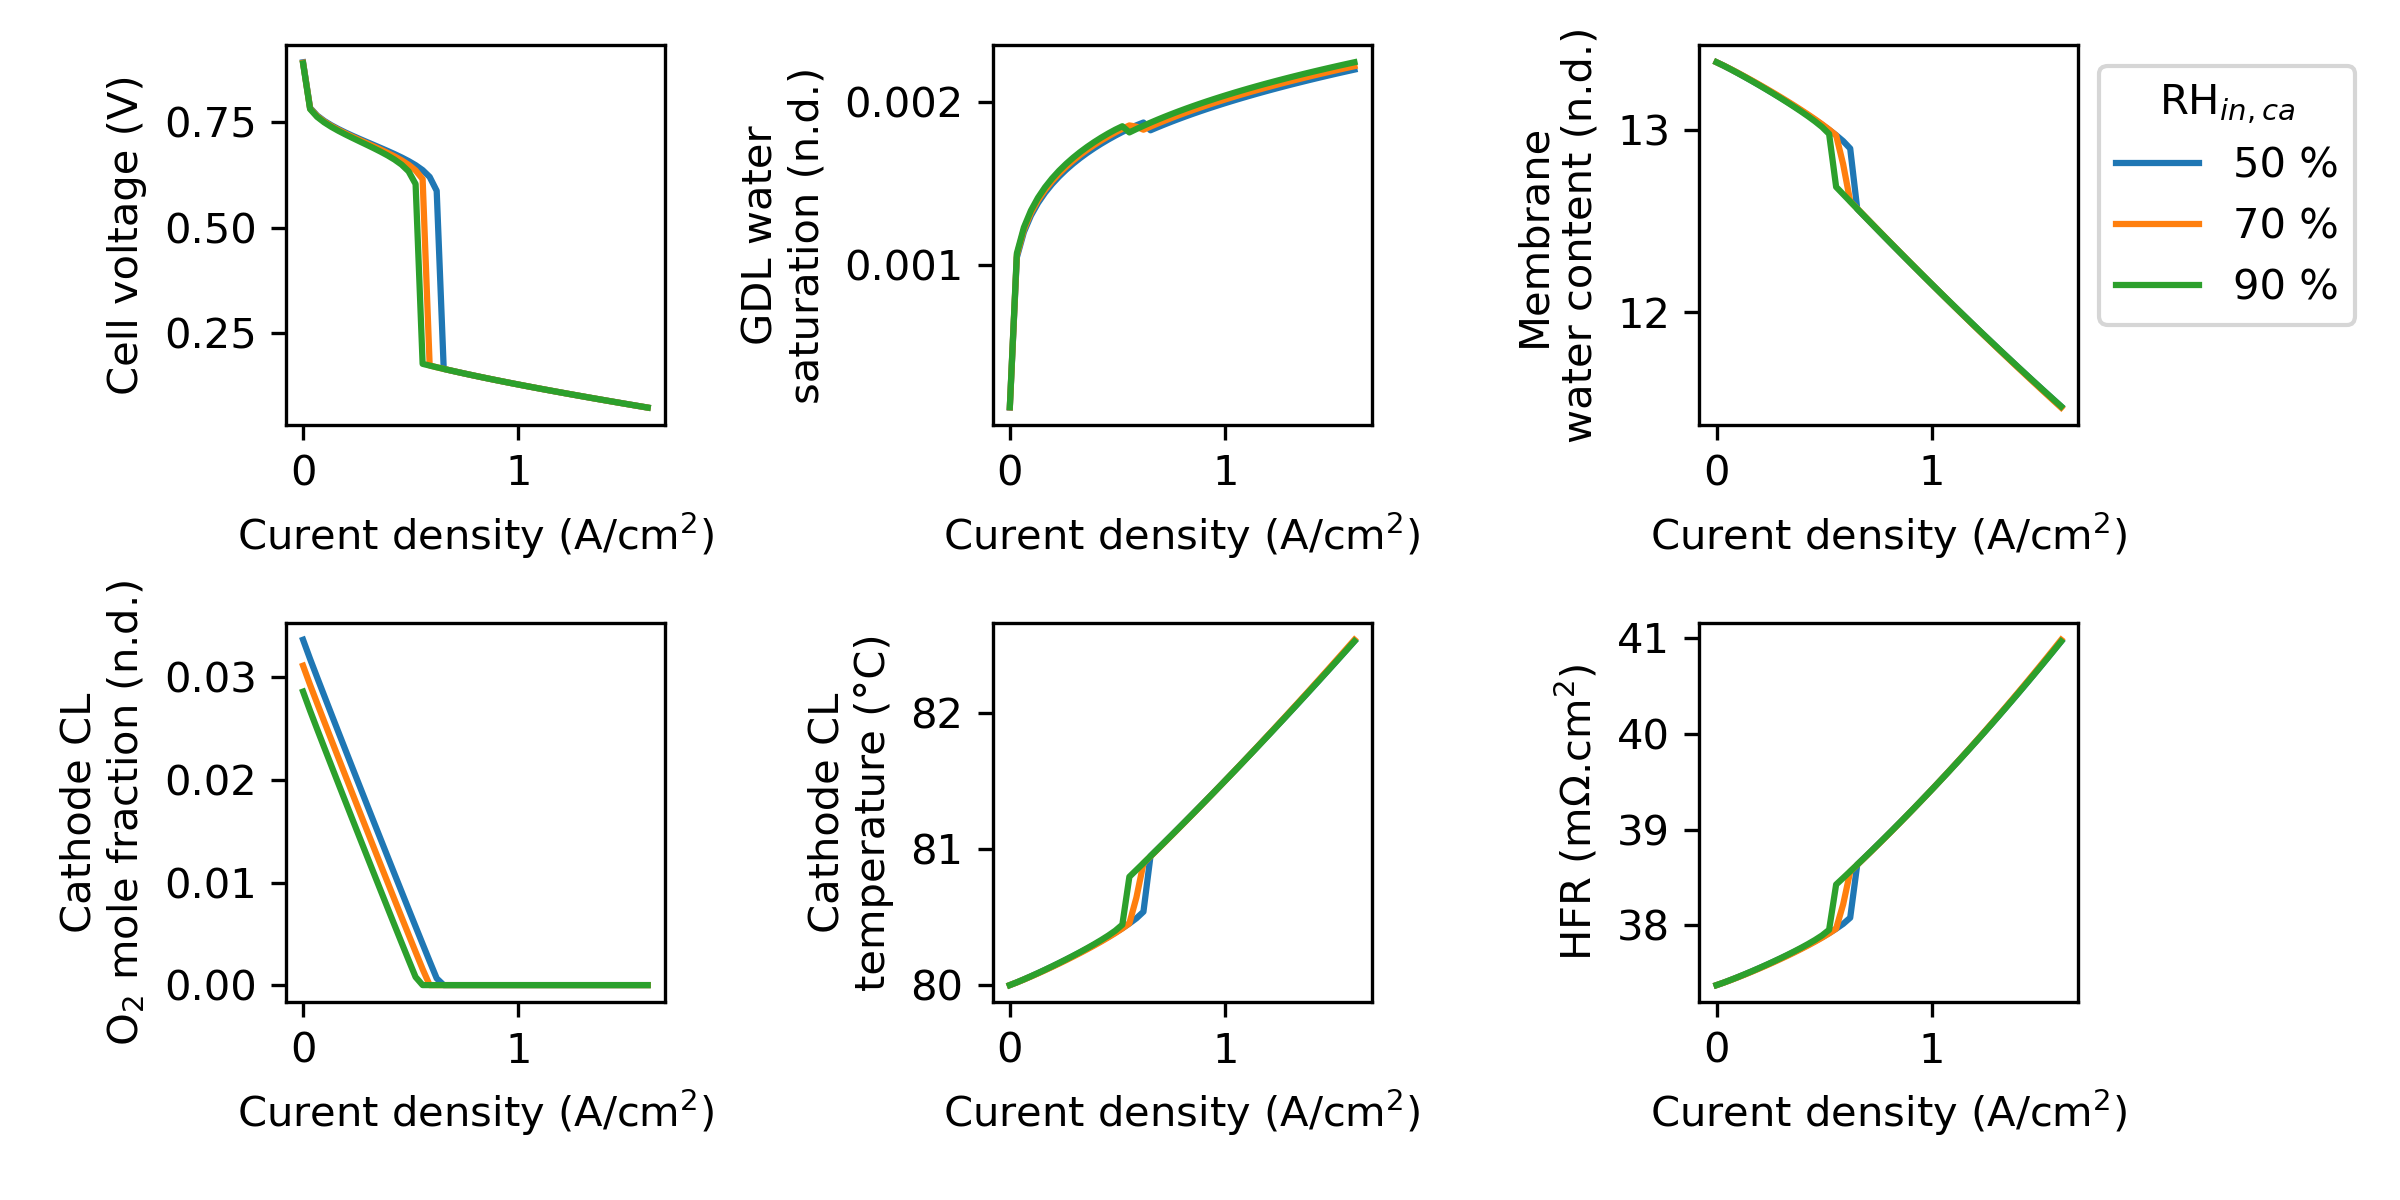
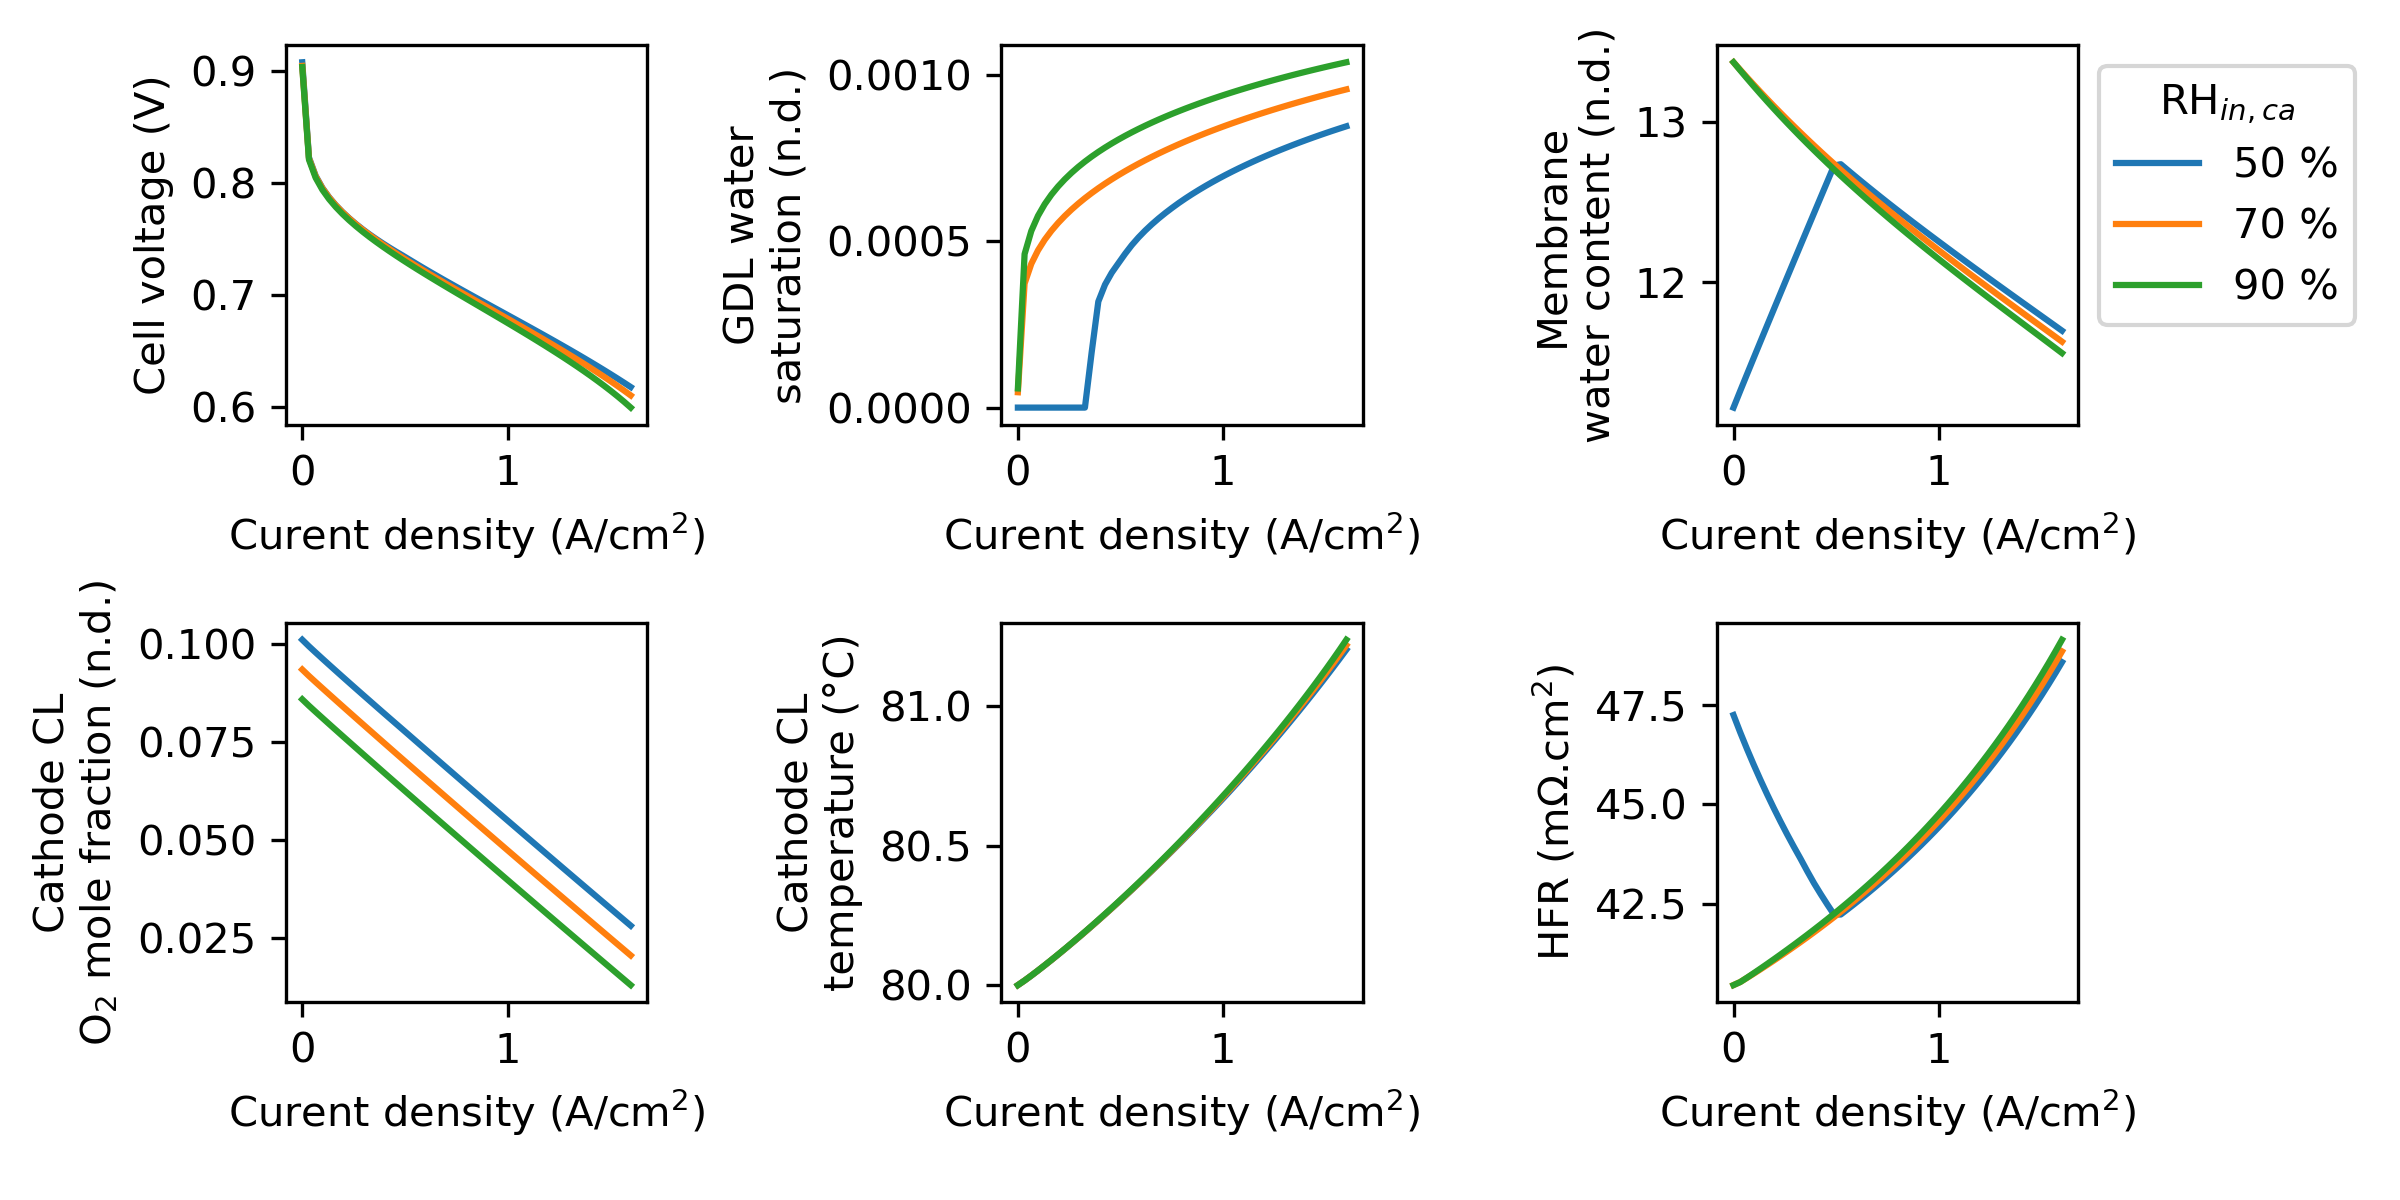
Correct wrong wet density calculation and transfer it to membrane parent class.

diff --git a/src/marapendi/ionomer.py b/src/marapendi/ionomer.py
@@ -16,7 +16,7 @@ import numpy as np
 import cantera as ct
 
 from .tools import arrhenius_term
-from .water import water_molecular_weight, water_molar_volume, water_density
+from .water import water_molar_volume
 from .membrane import Membrane, PAP85, PFSA
 
 @dataclass 
@@ -36,44 +36,6 @@ class CatalystLayerIonomer(Membrane):
 
     def __post_init__(self):
         super().__post_init__()
-
-    def wet_density(self, water_content, temperature):
-        """
-        Compute the wet density of the ionomer.
-
-        Parameters
-        ----------
-        water_content : float
-            Water content in the ionomer [n.d.].
-        temperature : float
-            Temperature [K].
-
-        Returns
-        -------
-        float
-            Wet density [kg/m3].
-        """
-        water_mass = water_molecular_weight * water_content
-        return self.equivalent_weight + water_mass / (self.equivalent_weight / self.dry_density + water_mass / water_density(temperature))
-
-    def wet_expansion_factor(self, water_content, temperature):
-        """
-        Compute volumetric expansion factor due to water uptake.
-
-        Parameters
-        ----------
-        water_content : float
-            Water content [n.d.].
-        temperature : float
-            Temperature [K].
-
-        Returns
-        -------
-        float
-            Expansion factor relative to dry volume.
-        """
-        water_mass = water_molecular_weight * water_content
-        return 1 + self.dry_density * water_mass / self.equivalent_weight / water_density(temperature)
 
     def charge_conductivity(self, water_content, temperature, charge='proton'):
         """

diff --git a/src/marapendi/membrane.py b/src/marapendi/membrane.py
@@ -6,7 +6,7 @@ import numpy as np
 import cantera as ct 
 from dataclasses import dataclass, field
 from marapendi.tools import arrhenius_term
-from marapendi.water import water_molar_volume
+from .water import water_molecular_weight, water_molar_volume, water_density
 from marapendi.water_balance_models import MembraneWaterBalanceModel
 from marapendi.membrane_permeation_models import HydrogenPermeationModel 
 
@@ -104,6 +104,44 @@ class Membrane:
         membrane_water_molar_volume = water_molar_volume * water_content
         return membrane_water_molar_volume / (self.dry_molar_volume +
                                                membrane_water_molar_volume)
+
+    def wet_density(self, water_content, temperature):
+        """
+        Compute the wet density of the ionomer.
+
+        Parameters
+        ----------
+        water_content : float
+            Water content in the ionomer [n.d.].
+        temperature : float
+            Temperature [K].
+
+        Returns
+        -------
+        float
+            Wet density [kg/m3].
+        """
+        water_mass = water_molecular_weight * water_content
+        return (self.equivalent_weight + water_mass) / (self.equivalent_weight / self.dry_density + water_mass / water_density(temperature))
+
+    def wet_expansion_factor(self, water_content, temperature):
+        """
+        Compute volumetric expansion factor due to water uptake.
+
+        Parameters
+        ----------
+        water_content : float
+            Water content [n.d.].
+        temperature : float
+            Temperature [K].
+
+        Returns
+        -------
+        float
+            Expansion factor relative to dry volume.
+        """
+        water_mass = water_molecular_weight * water_content
+        return 1 + self.dry_density * water_mass / self.equivalent_weight / water_density(temperature)
 
     def hydrogen_permeation_flux(self,
                                  partial_pressure_h2: float,